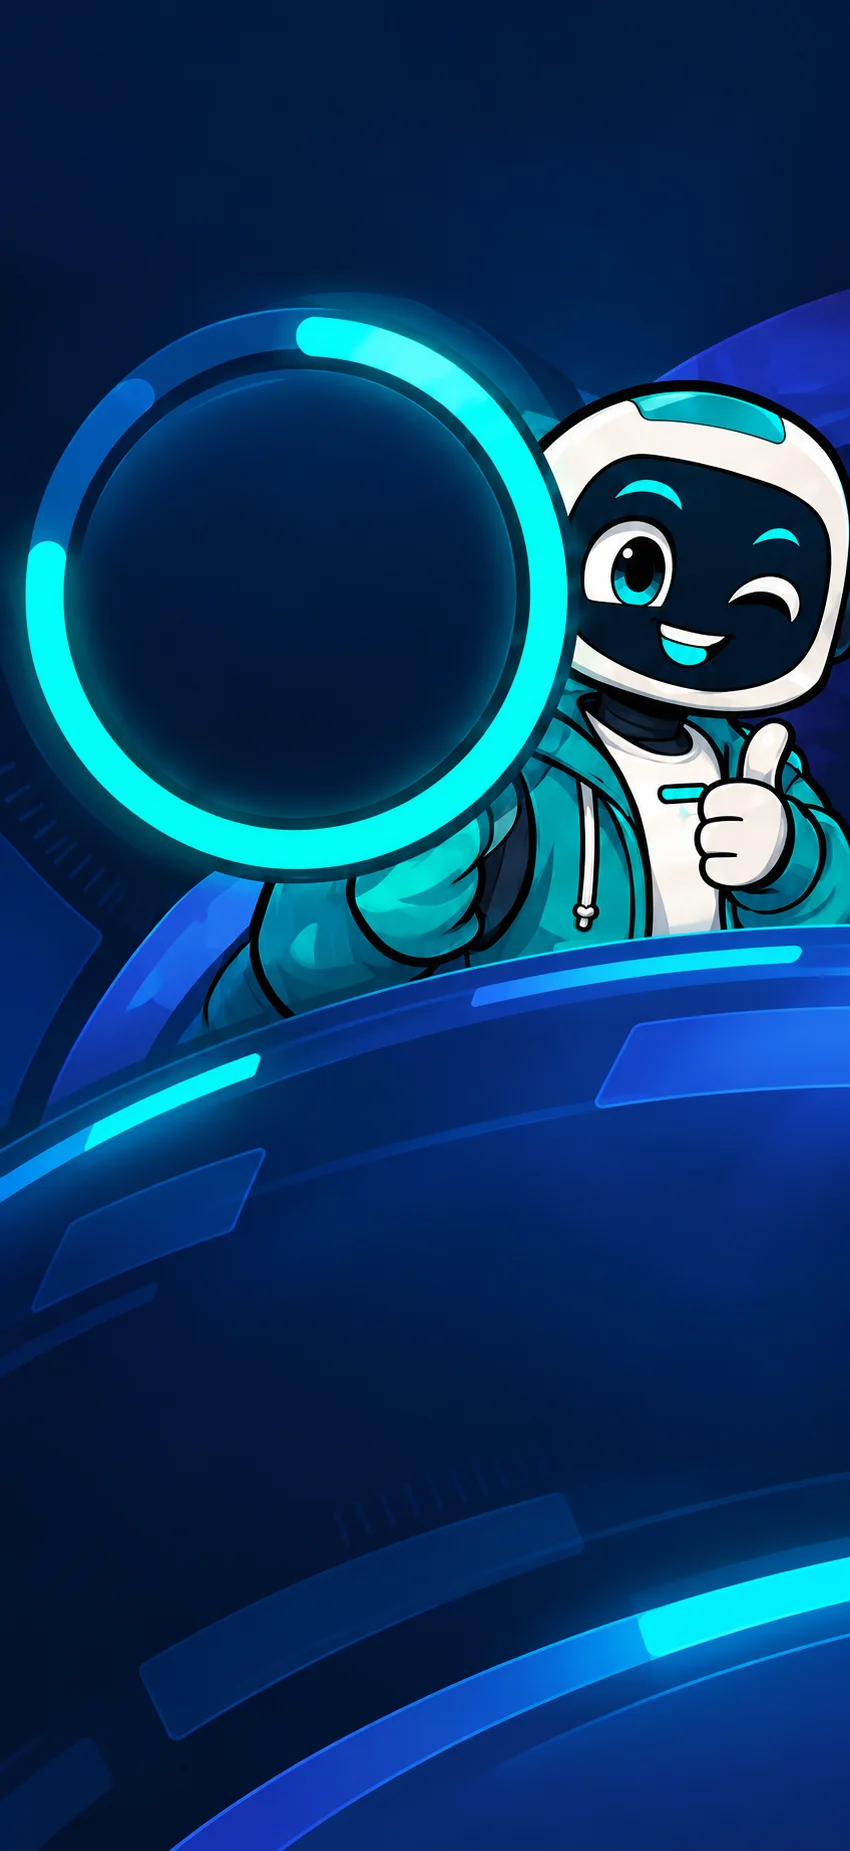
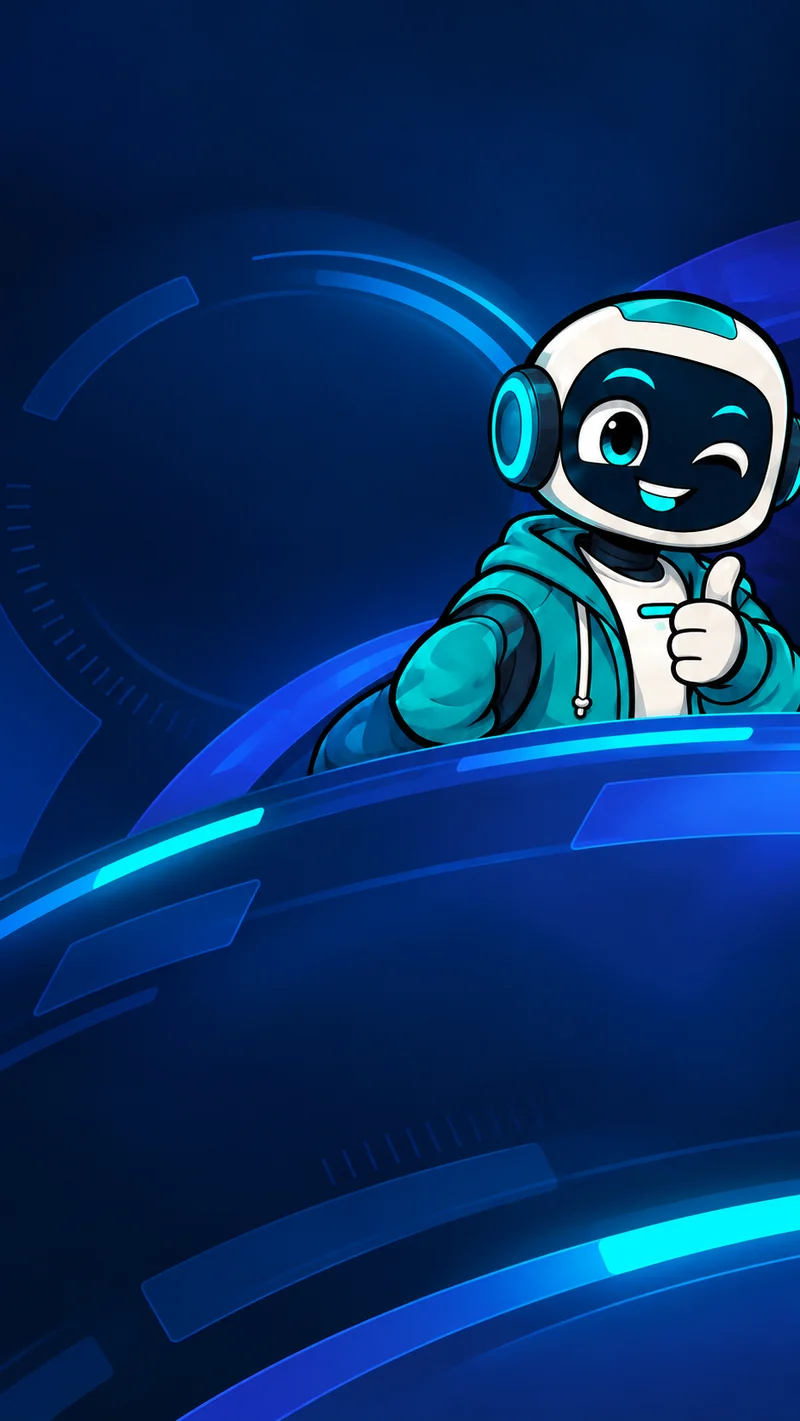
Resultado: aro por segmentos, diseño nuevo con robot y sin ranking repetido; juego: definición centrada sin cortes, barra de tiempo separada y sin doble arranque

diff --git a/index.html b/index.html
@@ -316,12 +316,13 @@ kbd{font-family:var(--cuerpo);font-weight:700;font-size:11px;color:var(--tinta);
   #rosco::after{content:"";position:absolute;inset:8%;border-radius:50%;pointer-events:none;
     background:radial-gradient(circle,color-mix(in srgb,var(--jug) 12%,transparent),transparent 72%)}
   #rosco .letra{width:10.6%;font-size:calc(var(--rw,343px)*.052)}
-  .centro-juego{inset:auto;top:50%;left:50%;transform:translate(-50%,-50%);
-    width:calc(var(--rw,343px)*.56);height:calc(var(--rw,343px)*.52);padding:0;gap:5px}
+  .centro-juego{inset:auto;position:absolute;top:50%;left:50%;transform:translate(-50%,-50%);
+    width:calc(var(--rw,343px)*.54);height:calc(var(--rw,343px)*.50);padding:0;gap:5px;
+    display:flex;flex-direction:column;align-items:center;justify-content:center;text-align:center;overflow:hidden}
   .consigna{font-size:12px;padding:6px 15px}
-  .definicion{line-height:1.32;min-height:0;width:100%;overflow:hidden}
+  .definicion{line-height:1.32;min-height:0;width:100%;padding:0 13px;overflow:hidden}
   .respuesta{width:100%;margin-bottom:14px}
-  .barra-turno{margin-top:16px}
+  .barra-turno{margin-top:24px}
   #entrada{max-width:none;padding:13px 14px;font-size:16px}
   .respuesta .btn{padding:13px 20px;font-size:15px}
   .lateral .acciones{order:-1;width:100%}
@@ -632,8 +633,8 @@ body.online #tiempo{display:none}
 
 /* ---- final / podio / ranking ---- */
 [data-tema="show"] .puntaje .total{color:var(--turquesa);text-shadow:0 0 40px color-mix(in srgb,var(--turquesa) 50%,transparent)}
-.fstats{display:flex;gap:12px;justify-content:center;flex-wrap:wrap;margin:14px 0 4px}
-.fstats>div{flex:1;min-width:110px;max-width:200px;background:var(--panel);border:1px solid var(--panel-borde);
+.fstats{display:flex;gap:12px;justify-content:center;margin:14px 0 4px}
+.fstats>div{flex:1;min-width:0;max-width:200px;background:var(--panel);border:1px solid var(--panel-borde);
   border-radius:16px;padding:12px 14px;display:flex;flex-direction:column;align-items:center;gap:2px}
 .fstats b{font-family:var(--display);font-size:clamp(24px,5vw,34px);line-height:1}
 .fstats small{font-size:12.5px;color:var(--gris);letter-spacing:.04em}
@@ -799,11 +800,17 @@ body{padding:0;overflow:hidden}
 #p-registro .bajada{color:#BFD0F2;text-shadow:0 1px 8px rgba(0,0,0,.6)}
 #p-registro .icobtn.volver{color:#D7E4FF}
 #p-final{--fondop:url("img/resultado.webp");background-position:center top}
-#p-final .puntaje{position:static;height:auto;min-height:0;flex:none;gap:0;padding-top:44vh}
-#p-final .anillo{position:absolute;left:0;top:9vh;width:min(57vw,235px);aspect-ratio:1;background:none!important;border:0!important;box-shadow:none!important;mask-image:none!important;-webkit-mask-image:none!important}
-#p-final .anillo::before{display:none!important}
-#p-final .anillo-in{background:none;border:0;box-shadow:none;backdrop-filter:none}
-#p-final .anillo-in b{text-shadow:0 0 22px rgba(34,227,214,.75),0 2px 10px rgba(0,0,0,.6)}
+#p-final .puntaje{position:static;height:auto;min-height:0;flex:none;gap:0;padding-top:40vh}
+#p-final .pie{display:grid;grid-template-columns:1fr 1fr;gap:12px;margin-top:18px}
+#p-final .pie .btn{width:100%;justify-content:center}
+#p-final #btn-practicar{grid-column:1/-1;font-size:17px;font-weight:800}
+#p-final .anillo{position:absolute;left:4vw;top:8vh;width:min(62vw,250px);aspect-ratio:1;background:none!important;border:0!important;box-shadow:none!important;mask-image:none!important;-webkit-mask-image:none!important}
+#p-final .anillo::before{display:block!important;
+  background:conic-gradient(var(--turquesa) 0 var(--a1,0%),var(--parina) var(--a1,0%) var(--a2,0%),rgba(140,170,230,.14) var(--a2,0%) 100%);
+  -webkit-mask:radial-gradient(farthest-side,transparent 78%,#000 79%);mask:radial-gradient(farthest-side,transparent 78%,#000 79%);
+  filter:drop-shadow(0 0 14px rgba(34,227,214,.5))}
+#p-final .anillo-in{background:rgba(5,12,32,.8);border:0;box-shadow:0 0 0 1px rgba(140,190,255,.3);backdrop-filter:blur(8px)}
+#p-final .anillo-in b{font-size:clamp(46px,13vw,64px);text-shadow:0 0 22px rgba(34,227,214,.75),0 2px 10px rgba(0,0,0,.6)}
 #p-final .anillo-in small{color:#BFE9F5;text-shadow:0 1px 8px rgba(0,0,0,.7)}
 #p-final .robot-final{display:none}
 #p-final .veredicto{position:static!important;max-width:100%;text-align:center}
@@ -878,8 +885,8 @@ input[type=text]::placeholder{color:#5F7B9E;font-weight:600}
 .rosco-col{flex:1;display:flex;flex-direction:column;min-height:0}
 @media(min-width:761px){.rosco-caja{flex:1;min-height:0;position:relative}}
 #rosco{position:absolute;inset:0}
-.centro-juego{position:absolute;left:50%;top:50%;width:66%;height:62%;transform:translate(-50%,-50%);
-  display:flex;flex-direction:column;align-items:center;justify-content:center;text-align:center;gap:6px;overflow:hidden}
+@media(min-width:761px){.centro-juego{position:absolute;left:50%;top:50%;width:66%;height:62%;transform:translate(-50%,-50%);
+  display:flex;flex-direction:column;align-items:center;justify-content:center;text-align:center;gap:6px;overflow:hidden}}
 .consigna{font-weight:900;font-size:13px;letter-spacing:.08em;text-transform:uppercase;color:var(--turquesa);
   background:none;padding:0;box-shadow:none}
 .definicion{font-weight:800;line-height:1.28;color:var(--texto)}
@@ -1148,11 +1155,11 @@ input[type=text]::placeholder{color:#5F7B9E;font-weight:600}
 <section class="pantalla" id="p-final">
   <div class="tarjeta">
     <div class="top"><button class="icobtn volver" id="btn-res-inicio" title="Volver al inicio" aria-label="Volver al inicio"><svg viewBox="0 0 24 24"><path d="M15 4 7 12l8 8" fill="none" stroke="currentColor" stroke-width="2.6" stroke-linecap="round" stroke-linejoin="round"/></svg></button><h2>Tu resultado</h2><span style="width:42px"></span></div>
-    <p class="eyebrow" id="motivo">Rosco cerrado</p>
     <div class="puntaje">
       <div class="anillo" id="anillo"><div class="anillo-in"><b><span id="f-ok">0</span></b><small>respuestas<br>correctas<br><span style="opacity:.65">de <span id="f-tot">19</span></span></small><span id="f-rot" style="display:none"></span></div>
       <img class="robot-final" src="img/robot.webp" alt="">
     </div>
+      <p class="eyebrow" id="motivo">Rosco cerrado</p>
       <p class="veredicto" id="veredicto"></p>
     <div class="fstats">
       <div class="fs-ok"><b id="fs-ok">0</b><small>Correctas</small></div>
@@ -1168,11 +1175,7 @@ input[type=text]::placeholder{color:#5F7B9E;font-weight:600}
       <div style="--c:var(--j2)"><b id="d2">—</b><span id="dp2">0</span> aciertos</div>
     </div>
     <div class="podio" id="podio" style="display:none"></div>
-    <div class="ranking" id="ranking-final" style="display:none">
-      <h3><svg class="tit-ico" viewBox="0 0 24 24" aria-hidden="true"><path d="M17 4h3a1 1 0 0 1 1 1c0 3.5-2 6-4.6 6.7A6 6 0 0 1 13 15.9V18h3v2H8v-2h3v-2.1a6 6 0 0 1-3.4-4.2C5 11 3 8.5 3 5a1 1 0 0 1 1-1h3V3h10v1zm-10 2H5.4c.3 1.7 1.2 3 2.4 3.7A10 10 0 0 1 7 6zm10 0a10 10 0 0 1-.8 3.7c1.2-.7 2.1-2 2.4-3.7H17z"/></svg>Mejores jugadores</h3>
-      <small>Tu marca ya quedó anotada en la planilla de la profe.</small>
-      <div id="ranking-final-lista"></div>
-    </div>
+
     <div id="aportes"></div>
     <p style="margin-top:14px"><button class="btn hueca chica" id="btn-aportes">Ver conceptos resueltos por cada integrante</button></p>
     <div class="meta" id="meta">
@@ -1187,10 +1190,10 @@ input[type=text]::placeholder{color:#5F7B9E;font-weight:600}
     <div id="grupos"></div>
     <span id="slot-final"></span>
     <div class="pie">
-      <button class="btn uva grande" id="btn-resultados"><svg class="tit-ico" viewBox="0 0 24 24" aria-hidden="true" style="fill:#fff"><path d="M17 4h3a1 1 0 0 1 1 1c0 3.5-2 6-4.6 6.7A6 6 0 0 1 13 15.9V18h3v2H8v-2h3v-2.1a6 6 0 0 1-3.4-4.2C5 11 3 8.5 3 5a1 1 0 0 1 1-1h3V3h10v1zm-10 2H5.4c.3 1.7 1.2 3 2.4 3.7A10 10 0 0 1 7 6zm10 0a10 10 0 0 1-.8 3.7c1.2-.7 2.1-2 2.4-3.7H17z"/></svg>Resultados y ranking</button>
+      <button class="btn hueca" id="btn-resultados"><svg class="tit-ico" viewBox="0 0 24 24" aria-hidden="true"><path fill="currentColor" d="M4 20V10h4v10H4zm6 0V4h4v16h-4zm6 0v-7h4v7h-4z"/></svg>Ver clasificación</button>
+      <button class="btn hueca" id="btn-otra"><svg class="tit-ico" viewBox="0 0 24 24" aria-hidden="true"><path fill="currentColor" d="M12 4a8 8 0 1 0 8 8h-2.2A5.8 5.8 0 1 1 12 6.2c1.7 0 3.2.7 4.3 1.9L13 11.4h8V3.4l-3.2 3.2A8 8 0 0 0 12 4z"/></svg><span id="btn-otra-txt">Jugar de nuevo</span></button>
       <button class="btn uva" id="btn-practicar">Practicar las que costaron</button>
-      <button class="btn" id="btn-otra">Otro rosco</button>
-      <button class="btn hueca" id="btn-inicio">Volver al inicio</button>
+      <button class="btn hueca chica" id="btn-inicio">Volver al inicio</button>
       <button class="btn hueca chica" id="btn-copiar">Copiar resultado</button>
     </div>
     <p style="color:var(--gris);font-size:13.5px;margin-top:14px">Tiempo usado <b id="f-tiempo">—</b><span style="display:none">Sección <b id="f-sec">—</b></span></p>
@@ -1529,14 +1532,14 @@ function leerConsigna(){
     $("feedback").className="feedback";
     $("feedback").innerHTML="<span class='tit'><svg class='fico' viewBox='0 0 24 24' aria-hidden='true'><path fill='currentColor' d='M12 3a8 8 0 0 0-8 8v6a2 2 0 0 0 2 2h2a1 1 0 0 0 1-1v-5a1 1 0 0 0-1-1H6v-1a6 6 0 0 1 12 0v1h-2a1 1 0 0 0-1 1v5a1 1 0 0 0 1 1h2a2 2 0 0 0 2-2v-6a8 8 0 0 0-8-8z'/></svg> Sin voz</span>No se escuchó la consigna, pero está escrita arriba: podés responder igual.";
     luego(()=>$("entrada").focus(),60);
-  },7000+(cons.length+txt.length)*80);
+  },10000+(cons.length+txt.length)*130);
   setTimeout(()=>decir(cons,()=>{
     setTimeout(()=>{
       if(!lectura||!soportaVoz||!jugando||items[idx]!==it)return;
       decir(txt,()=>{
         if(jugando&&items[idx]===it&&!esBot()){
           if(enLinea&&!miTurno()){verRival();return;}
-          habilitar(true);tIni=Date.now();arrancarReloj();arrancarLetra();
+          if($("entrada").disabled){habilitar(true);tIni=Date.now();arrancarReloj();arrancarLetra();}
           $("feedback").className="feedback";$("feedback").textContent="";
           luego(()=>$("entrada").focus(),60);
         }});
@@ -1904,7 +1907,7 @@ function mostrarLetra(){
   const it=items[idx];
   $("consigna").textContent=(it.m===E?"Empieza por ":"Contiene la ")+it.letra+(estado[idx]==="pasada"?" ↻":"");
   const rw=$("rosco").offsetWidth||343;
-  $("definicion").style.fontSize=Math.max(12,Math.min(rw*.042,rw/it.d.length*18))+"px";
+  $("definicion").style.fontSize=Math.max(12,Math.min(rw*.04,rw/it.d.length*16))+"px";
   $("definicion").innerHTML=it.d;
   $("entrada").value="";actBtnResp();$("feedback").textContent="";$("feedback").className="feedback";
   pintar();leerConsigna();
@@ -2125,7 +2128,8 @@ function terminar(motivo){
   $("f-ok").textContent=ok;$("f-tot").textContent=n;$("motivo").textContent=motivo;
   const er_=estado.filter(s=>s==="error").length;
   $("fs-ok").textContent=ok;$("fs-er").textContent=er_;$("fs-ps").textContent=n-ok-er_;
-  $("anillo").style.setProperty("--pct",(100*ok/n)+"%");
+  $("anillo").style.setProperty("--a1",(100*ok/n)+"%");
+  $("anillo").style.setProperty("--a2",(100*(ok+er_)/n)+"%");
   const pts=ok*100+(sinReloj?0:Math.round(99*Math.max(0,Math.min(1,(seg-(enLinea?rel[yo]:Math.max(restante,0)))/seg))));
   $("fp-val").textContent=pts.toLocaleString("es-AR");
   let mejor=0;try{mejor=+localStorage.getItem("ppia-mejor-pts")||0}catch(e){}
@@ -2693,11 +2697,11 @@ function lluviaLetras(){   // letras del rosco que caen como papelitos cuando se
 /* --- final: revancha, repaso a solas --- */
 function redBotonFinal(){
   chatUbicar();
-  const b=$("btn-otra");if(!red.sala){b.textContent="Otro rosco";b.disabled=false;return;}
+  const b=$("btn-otra"),bt=$("btn-otra-txt");if(!red.sala){bt.textContent="Jugar de nuevo";b.disabled=false;return;}
   const nom=nombreBonito((red.jug?red.jug.nombres:nombres)[1-yo]||"tu rival");
-  if(!red.rival||!red.rivalAqui){b.textContent=red.rival?"Esperando que vuelva "+nom:"Tu rival salió de la sala";b.disabled=true;return;}
+  if(!red.rival||!red.rivalAqui){bt.textContent=red.rival?"Esperando que vuelva "+nom:"Tu rival salió de la sala";b.disabled=true;return;}
   b.disabled=red.quiero&&!red.rivalQuiere;
-  b.textContent=red.quiero?"Esperando a "+nom+"…":red.rivalQuiere?nom+" quiere la revancha: ¡dale!":"Pedir revancha";
+  bt.textContent=red.quiero?"Esperando a "+nom+"…":red.rivalQuiere?nom+" quiere la revancha: ¡dale!":"Pedir revancha";
 }
 function redRevancha(){
   red.quiero=true;redEnviar("rev",{});
